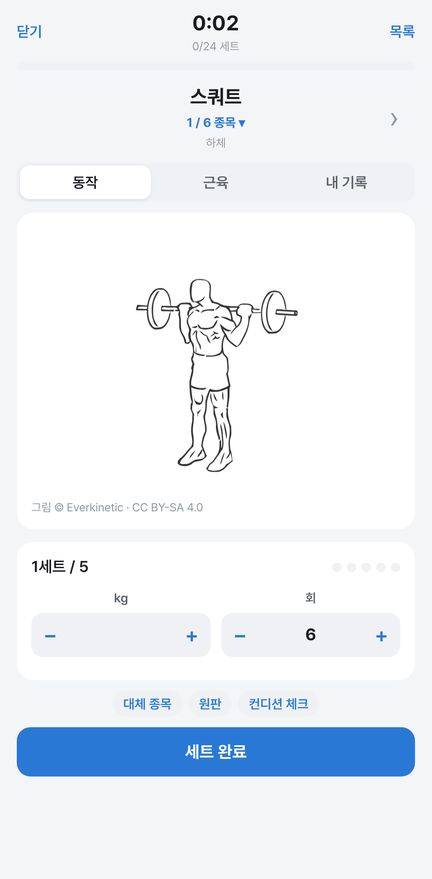
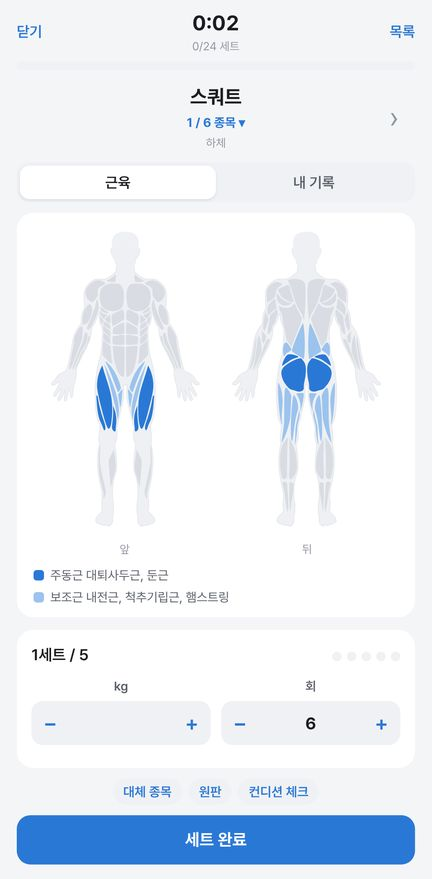
Add files via upload

diff --git a/index.html b/index.html
@@ -852,29 +852,7 @@ function suggestSets(name,n,reps,w){
 
 let animRaf=0;
 
-/* 동작 그림: Everkinetic (https://github.com/everkinetic/data) · CC BY-SA 4.0
-   준비 자세(relaxation)와 수축 자세(tension) 두 장을 번갈아 보여 줌. ek.pack.gz 한 파일(약 1.8MB, 오프라인 캐시) */
-const EKV={"벤치프레스":"0042","인클라인 벤치프레스":"0043","디클라인 벤치프레스":"0051","스미스 벤치프레스":"0078","덤벨 벤치프레스":"0055","인클라인 덤벨프레스":"0061","덤벨 플라이":"0056","케이블 플라이":"0057","케이블 크로스오버":"0048","체스트 프레스 머신":"0066","인클라인 체스트 프레스 머신":"0081","딥스":"0054","푸시업":"0077","디클라인 푸시업":"0075","데드리프트":"0099","랙풀":"0100","바벨로우":"0026","펜들레이 로우":"0026","T바 로우":"0029","덤벨 로우":"0024","인버티드 로우":"0086","풀업":"0087","친업":"0090","랫풀다운":"0093","클로즈그립 랫풀다운":"0096","시티드 로우":"0025","원암 케이블 로우":"0025","머신 로우":"0025","해머 DY 로우":"0025","스트레이트암 풀다운":"0092","케이블 풀오버":"0092","백 익스텐션":"0103","바벨 슈러그":"0030","덤벨 슈러그":"0005","스쿼트":"0122","프론트 스쿼트":"0138","박스 스쿼트":"0133","스미스 스쿼트":"0124","고블릿 스쿼트":"0130","핵 스쿼트":"0123","레그프레스":"0127","RDL":"0118","덤벨 RDL":"0107","굿모닝":"0101","힙 쓰러스트":"0109","글루트 브릿지":"0109","불가리안 스플릿 스쿼트":"0132","런지":"0115","워킹 런지":"0121","샌드백 런지":"0114","스텝업":"0137","레그컬":"0117","레그 익스텐션":"0142","힙 어브덕션":"0156","힙 어덕션":"0157","카프레이즈":"0282","시티드 카프레이즈":"0279","오버헤드프레스":"0004","머신 숄더프레스":"0004","덤벨 숄더프레스":"0038","아놀드 프레스":"0038","사이드 레터럴 레이즈":"0018","프론트 레이즈":"0033","리어 델트 플라이":"0032","업라이트 로우":"0014","바벨컬":"0211","EZ바 컬":"0226","덤벨 컬":"0224","해머컬":"0227","인클라인 덤벨 컬":"0214","컨센트레이션 컬":"0220","프리처 컬":"0239","케이블컬":"0212","케이블 해머컬":"0216","리버스 컬":"0257","트라이셉스 푸시다운":"0205","로프 푸시다운":"0206","리버스 그립 푸시다운":"0189","오버헤드 트라이셉스 익스텐션":"0192","케이블 오버헤드 익스텐션":"0176","라잉 트라이셉스 익스텐션":"0183","덤벨 킥백":"0204","클로즈그립 벤치프레스":"0049","트라이셉스 딥스":"0171","벤치 딥스":"0162","사이드 플랭크":"0113","크런치":"0291","바이시클 크런치":"0284","케이블 크런치":"0288","라잉 레그레이즈":"0021","앱 롤아웃":"0286","디클라인 덤벨프레스":"0052","월볼":"0130","케이블 레터럴 레이즈":"0018","머신 레터럴 레이즈":"0018","리버스 펙덱":"0032","케이블 하이로우":"0025","시티드 레그컬":"0119","라잉 레그컬":"0117","내로우 핵 스쿼트":"0145","싱글 레그프레스":"0143","시시 스쿼트":"0158","스미스 런지":"0115","힙 쓰러스트 머신":"0109","케이블 글루트 킥백":"0112","케이블 힙 어덕션":"0135","레그프레스 카프레이즈":"0273","동키 카프레이즈":"0275","스미스 카프레이즈":"0282","디클라인 체스트 프레스 머신":"0066","와이드 체스트 프레스 머신":"0066","인클라인 덤벨 플라이":"0062","인클라인 케이블 플라이":"0060","로우 투 하이 케이블 플라이":"0048","어시스트 딥스":"0054","어시스트 풀업":"0087","언더그립 랫풀다운":"0096","원암 랫풀다운":"0093","머신 랫풀다운":"0093","머신 로우로우":"0025","머신 하이로우":"0025","T바 로우 머신":"0029","스미스 로우":"0026","머신 풀오버":"0079","덤벨 풀오버":"0079","백 익스텐션 머신":"0103","스미스 슈러그":"0041","케이블 슈러그":"0009","스미스 밀리터리 프레스":"0004","스미스 업라이트 로우":"0013","케이블 프론트 레이즈":"0008","케이블 리어 델트 플라이":"0035","케이블 Y 레이즈":"0018","원암 케이블 푸시다운":"0166","V바 푸시다운":"0207","트라이셉스 익스텐션 머신":"0210","케이블 트라이셉스 킥백":"0204","스미스 클로즈그립 벤치프레스":"0195","스파이더 컬":"0245","프리처 컬 머신":"0236","머신 컬":"0253","케이블 프리처 컬":"0217","원암 케이블 컬":"0247","오버헤드 케이블 컬":"0238","원암 덤벨 프리처 컬":"0237","복근 크런치 머신":"0288","디클라인 크런치":"0292","원암 덤벨 오버헤드 익스텐션":"0186","와이드그립 랫풀다운":"0093","스미스 인클라인 벤치프레스":"0081"};
-Object.assign(EKV,{'링 딥':'0054','싯업':'0291','체스트 투 바 풀업':'0087'});
-const EK_CREDIT='그림 © Everkinetic · CC BY-SA 4.0';
-let ekP=null;const ekURL={};
-function loadEk(){
-  if(ekP)return ekP;
-  ekP=(async()=>{const buf=(await gzFetch(['ek.pack.gz','ohun/ek.pack.gz'])).buffer;
-    const dv=new DataView(buf);if(String.fromCharCode(...new Uint8Array(buf,0,4))!=='OHEK')throw new Error('bad pack');
-    const hl=dv.getUint32(4,true),idx=JSON.parse(new TextDecoder().decode(new Uint8Array(buf,8,hl))),base=8+hl;
-    for(const[k,[o,l]]of Object.entries(idx))ekURL[k]=URL.createObjectURL(new Blob([new Uint8Array(buf,base+o,l)],{type:'image/svg+xml'}));return true;})().catch(e=>{ekP=null;return false;});
-  return ekP;
-}
-function showAnim(idp,name){
-  const ph=$(idp+'Ph'),lab=$(idp+'FigL');if(!ph)return;const id=EKV[name];
-  const none=()=>{ph.innerHTML='<div class="tiny" style="padding:40px 0;text-align:center">그림을 불러오지 못했어요 · 근육 탭을 확인하세요</div>';if(lab)lab.textContent='';};
-  if(!id){none();return;}
-  ph.classList.add('ek');if(lab)lab.textContent=EK_CREDIT;
-  const tok=ph.dataset.tok=String(Math.random());ph.innerHTML='';
-  loadEk().then(ok=>{if(ph.dataset.tok!==tok)return;if(!ok||!ekURL[id+'r']){none();return;}
-    ph.innerHTML=`<img class="r" src="${ekURL[id+'r']}" alt="준비 자세"><img class="t" src="${ekURL[id+'t']}" alt="수축 자세">`;});
-}
+/* 동작 그림 기능은 v7.13에서 제거 (오운_동작그림_백업.zip에 보관) */
 
 /* ══════════════════════ 근육 지도 ══════════════════════ */
 /* 근육 지도 SVG 경로: react-native-body-highlighter v3.2.0
@@ -912,18 +890,13 @@ function exHistHTML(name){
   <table class="t" style="margin-top:6px">${[...H].reverse().slice(0,6).map(h=>`<tr><td style="color:var(--text3)">${md(h.date)}</td><td>${t?h.top.r+'초':h.top.w+'kg × '+h.top.r}</td><td style="text-align:right;color:var(--text2)">${h.sets}세트</td></tr>`).join('')}</table>`;
 }
 function guideHTML(name,idp){
-  const ek=!!EKV[name];
-  return`<div class="seg" id="${idp}Seg" style="margin-bottom:10px">${ek?'<button class="on" data-k="anim">동작</button>':''}<button class="${ek?'':'on'}" data-k="mus">근육</button><button data-k="his">내 기록</button></div>
-  <div class="gbox"><div id="${idp}Anim" style="${ek?'':'display:none'}"><div class="ph" id="${idp}Ph"></div>
-  <div style="min-height:22px;padding:0 4px"><span class="tiny" id="${idp}FigL"></span></div></div>
-  <div id="${idp}Mus" style="${ek?'display:none':''}">${muscleSVG(name)}${musLegend(name)}</div>
+  return`<div class="seg" id="${idp}Seg" style="margin-bottom:10px"><button class="on" data-k="mus">근육</button><button data-k="his">내 기록</button></div>
+  <div class="gbox"><div id="${idp}Mus">${muscleSVG(name)}${musLegend(name)}</div>
   <div id="${idp}His" style="display:none"></div></div>`;
 }
 function bindGuide(idp,name){
-  bindSeg(idp+'Seg',k=>{$(idp+'Anim').style.display=k==='anim'?'':'none';$(idp+'Mus').style.display=k==='mus'?'':'none';$(idp+'His').style.display=k==='his'?'':'none';
-    if(k==='anim')showAnim(idp,name);else cancelAnimationFrame(animRaf);
-    if(k==='his'){$(idp+'His').innerHTML=exHistHTML(name);const H=exHistory(name).slice(-20),t=isTimed(name);if($('ehChart'))chart($('ehChart'),H.map(h=>md(h.date)),[{name:t?'초':'추정 1RM',data:H.map(h=>t?h.top.r:h.est||null),color:'var(--s1)'}],{h:140,fmt:v=>v+(t?'초':' kg')});}});
-  if(EKV[name])showAnim(idp,name);else cancelAnimationFrame(animRaf);
+  bindSeg(idp+'Seg',k=>{$(idp+'Mus').style.display=k==='mus'?'':'none';$(idp+'His').style.display=k==='his'?'':'none';
+    if(k==='his'){$(idp+'His').innerHTML=exHistHTML(name);const H=exHistory(name).slice(-20),t=isTimed(name);if($('ehChart'))chart($('ehChart'),H.map(h=>md(h.date)),[{name:t?'초':'추정 1RM',data:H.map(h=>t?h.top.r:h.est||null),color:'var(--s1)'}],{h:140,fmt:v=>t?v+'초':v+'kg'});}});
 }
 function openGuide(name){
   const i=exInfo(name);
@@ -2295,7 +2268,7 @@ function renderMore(){
   <div class="list">${row('운동 타이머','카운트다운 · 스톱워치 · 인터벌 · EMOM · WOD','openTimerTool()')}${row('주로 하는 운동',FOCUS_L[S.focus||'all'],'openFocus()')}${row('목표',(()=>{const G=goalsOf();const n=(G.weight&&G.weight.t?1:0)+G.lifts.length;return n?`${n}개 진행 중`:'체중 · 종목 목표와 필요 속도';})(),'openGoals()')}${row('영양제 · 복용 약물',S.meds&&S.meds.length?`약물 ${S.meds.length}개 등록`:'운동할 때 주의할 점 안내','openMeds()')}${row('휴식 타이머','','openRestSet()',`<span class="tiny">${S.rest?S.rest+'초':'끔'}</span>`)}${row('음성 안내','타이머 3·2·1 카운트다운','S.voice=S.voice?0:1;saveLocal();renderMore()',`<span class="badge ${S.voice?'b-good':''}">${S.voice?'켜짐':'꺼짐'}</span>`)}</div>
   <div class="sec">앱</div>
   <div class="list">${row('계정 · 클라우드',fb.user?`${esc(fb.user.email||'로그인됨')} · ${fb.state||'연결됨'}`:'로그인하면 여러 기기에서 같은 기록','openAccount()')}${isStandalone()?'':row('홈 화면에 설치','앱처럼 전체 화면 · 오프라인 실행','installApp()')}${row('데이터 백업 · 복원','JSON · CSV 내보내기','openData()')}${row('화면 테마','',"S.theme=S.theme==='auto'?'light':S.theme==='light'?'dark':'auto';applyTheme();saveLocal();renderMore()",`<span class="tiny">${{auto:'시스템',light:'라이트',dark:'다크'}[S.theme||'auto']}</span>`)}${row('의견 보내기','버그 · 불편한 점 · 원하는 기능','openFeedback()')}${row('개인정보 · 이용 안내','','openPrivacy()')}</div>
-  <div class="tiny" style="text-align:center;margin-top:18px;line-height:1.7">오운! v${APP_VER} · <button class="link" style="font-size:11px" onclick="checkUpdate()">업데이트 확인</button><br>MEV/MAV/MRV: Israetel 2019 · BMR: Mifflin-St Jeor · FFMI: Kouri 1995<br>근육 지도: react-native-body-highlighter (MIT, ELABBASSI Hicham)<br>운동 그림: Everkinetic (CC BY-SA 4.0)<br>의학적·전문 트레이닝 조언을 대체하지 않습니다.</div>
+  <div class="tiny" style="text-align:center;margin-top:18px;line-height:1.7">오운! v${APP_VER} · <button class="link" style="font-size:11px" onclick="checkUpdate()">업데이트 확인</button><br>MEV/MAV/MRV: Israetel 2019 · BMR: Mifflin-St Jeor · FFMI: Kouri 1995<br>근육 지도: react-native-body-highlighter (MIT, ELABBASSI Hicham)<br>의학적·전문 트레이닝 조언을 대체하지 않습니다.</div>
   <a class="credit" href="https://www.instagram.com/proteinvillain/" target="_blank" rel="noopener">만든 사람 <b>@proteinvillain</b> · Instagram</a><div class="tiny" style="text-align:center;color:var(--text3)">비상업 개인 프로젝트 · 광고·결제 없음</div>`;
 }
 function openProfile(){
@@ -3145,7 +3118,7 @@ function openCSV(){
 /* ── 공개판: 처음 안내 · 개인정보 안내 · 클라우드 삭제 ── */
 function openWelcome(){
   openSheet(`<div style="text-align:center;padding:10px 4px 4px"><div class="brand" style="justify-content:center;font-size:26px;font-weight:900"><i style="width:52px;height:52px;border-radius:14px"><img src="icons/logo-r.png" alt=""></i>오운!</div><div class="muted" style="margin-top:6px">오늘 운동, 완료!</div></div>
-  <div class="card">${[['프로그램이 오늘 할 운동을 알려 줘요','5×5·5/3/1·하이록스 등 검증된 플랜을 고르면 요일별 운동과 무게가 자동으로 나옵니다.'],['운동 모드로 세트·휴식을 한 화면에서','동작 그림, 휴식 타이머, 원판 계산, 자동 증량 제안까지.'],['러닝·인바디·식단도 함께','식약처 DB 29만 개 음식 검색, 인바디 분석, 러닝 부하 관리.'],['기록은 내 기기에','로그인 없이 바로 쓸 수 있고, 원하면 계정으로 백업·동기화합니다.']].map(([t,d],i)=>`<div style="display:flex;gap:12px;padding:8px 0"><b style="width:26px;height:26px;border-radius:50%;background:var(--pri);color:#fff;display:flex;align-items:center;justify-content:center;flex:none;font-size:13px">${i+1}</b><div><div class="li-t">${t}</div><div class="tiny" style="margin-top:2px">${d}</div></div></div>`).join('')}</div>
+  <div class="card">${[['프로그램이 오늘 할 운동을 알려 줘요','5×5·5/3/1·하이록스 등 검증된 플랜을 고르면 요일별 운동과 무게가 자동으로 나옵니다.'],['운동 모드로 세트·휴식을 한 화면에서','근육 지도, 휴식 타이머, 원판 계산, 자동 증량 제안까지.'],['러닝·인바디·식단도 함께','식약처 DB 29만 개 음식 검색, 인바디 분석, 러닝 부하 관리.'],['기록은 내 기기에','로그인 없이 바로 쓸 수 있고, 원하면 계정으로 백업·동기화합니다.']].map(([t,d],i)=>`<div style="display:flex;gap:12px;padding:8px 0"><b style="width:26px;height:26px;border-radius:50%;background:var(--pri);color:#fff;display:flex;align-items:center;justify-content:center;flex:none;font-size:13px">${i+1}</b><div><div class="li-t">${t}</div><div class="tiny" style="margin-top:2px">${d}</div></div></div>`).join('')}</div>
   <label style="display:flex;gap:10px;align-items:center;margin:0 4px 12px;font-size:14px;cursor:pointer"><input type="checkbox" id="wcAge" style="width:20px;height:20px;accent-color:var(--pri)"><span>만 14세 이상이며 <button class="link" style="font-size:14px" onclick="event.preventDefault();openPrivacy()">개인정보·이용 안내</button>를 확인했습니다</span></label>
   <button class="btn" onclick="if(!$('wcAge').checked){toast('만 14세 이상 확인에 체크해 주세요');return;}S.welcomed=new Date().toISOString();saveLocal();closeSheet();setTimeout(openOnboarding,300)">시작하기</button>
   <button class="link" style="display:block;margin:14px auto 2px;font-size:13px" onclick="closeSheet();restoreGoogle()">예전에 쓰던 기록이 있어요 · 복원하기</button>`);
@@ -3166,7 +3139,7 @@ function privacyBody(sec){
   ${sec('삭제','더보기 › 데이터 백업 · 복원 › 모든 데이터 삭제로 기기 기록을 지웁니다. 클라우드 기록과 계정은 더보기 › 계정 · 클라우드 › 클라우드 데이터와 계정 삭제로 지웁니다.')}
   ${sec('건강 관련 안내','운동·식단 제안은 일반적인 정보이며 의학적 진단이나 전문 트레이닝을 대신하지 않습니다. 통증이나 지병이 있으면 전문가와 상의하세요.')}
   ${sec('문의 · 운영자','만든 사람: <a href="https://www.instagram.com/proteinvillain/" target="_blank" rel="noopener" style="color:var(--pri);font-weight:700">@proteinvillain</a> (Instagram)<br>개인정보 보호 담당도 만든 사람이 직접 맡습니다. 개인정보 열람·정정·삭제 요청이나 오류 제보는 인스타그램 DM으로 보내 주세요. 앱 안에서 직접 삭제하는 방법은 위 \'삭제\' 항목을 참고하세요.')}
-  ${sec('출처','운동 그림: Everkinetic (CC BY-SA 4.0) · 근육 지도: react-native-body-highlighter (MIT) · 음식: 식품의약품안전처 식품영양성분 DB(공공데이터포털) · 글자 인식: Tesseract.js·tessdata (Apache 2.0) · 로그인·저장: Firebase (Google)<br>5/3/1, Madcow, HYROX 등은 각 권리자의 프로그램·상표 이름으로, 설명 목적으로만 쓰며 공식 제휴 앱이 아닙니다.')}`;
+  ${sec('출처','근육 지도: react-native-body-highlighter (MIT) · 음식: 식품의약품안전처 식품영양성분 DB(공공데이터포털) · 글자 인식: Tesseract.js·tessdata (Apache 2.0) · 로그인·저장: Firebase (Google)<br>5/3/1, Madcow, HYROX 등은 각 권리자의 프로그램·상표 이름으로, 설명 목적으로만 쓰며 공식 제휴 앱이 아닙니다.')}`;
 }
 function openPrivacy(){openSheet(`<div class="sheet-h"><h2>개인정보 · 이용 안내</h2><button class="link" onclick="closeSheet()">닫기</button></div>${privacyBody()}`);
 }
@@ -3709,13 +3682,12 @@ async function runInstallCheck(){
   const icons=(man&&man.icons)||[{src:'icons/icon-192.png'},{src:'icons/icon-512.png'}];
   for(const ic of icons){try{const r=await fetch(ic.src,{cache:'no-store'});ok('아이콘 '+ic.src,r.ok&&/image/.test(r.headers.get('content-type')||''),'icons 폴더째로 저장소에 올리세요.');}catch(e){ok('아이콘 '+ic.src,false,'icons 폴더째로 저장소에 올리세요.');}}
   for(const f of['data/food-kr-1.tsv.gz','data/food-kr-2.tsv.gz']){try{const r=await fetch(f,{method:'HEAD',cache:'no-store'});ok('식약처 음식 DB '+f,r.ok,'data 폴더째로 저장소 맨 위에 올리세요. (폴더 없이 파일만 올렸어도 앱은 찾아 씁니다)');}catch(e){ok(f,false);}}
-  try{const r=await fetch('ek.pack.gz',{method:'HEAD',cache:'no-store'});ok('운동 그림(ek.pack.gz)',r.ok,'ek.pack.gz 파일을 저장소 맨 위에 올리세요.');}catch(e){ok('ek.pack.gz',false);}
   try{const r=await fetch('sw.js',{cache:'no-store'});ok('sw.js',r.ok,'sw.js를 저장소 맨 위에 올리세요.');}catch(e){ok('sw.js',false);}
   try{const reg=await navigator.serviceWorker?.getRegistration();ok('오프라인 작동(서비스 워커)',!!(reg&&reg.active),'새로고침 후 다시 검사하세요.');}catch(e){ok('서비스 워커',false);}
   if(!isIOS())ok('크롬 설치 준비',!!installEvt||isStandalone(),'위 항목이 모두 정상인데 여기만 문제면 메뉴 › "홈 화면에 추가"로 설치하세요. 이미 설치되어 있어도 이렇게 표시됩니다.');
   out.innerHTML=rows.join('');
 }
-const APP_VER='7.12';
+const APP_VER='7.13';
 async function checkUpdate(){toast('최신 버전 확인 중...');try{const r=await navigator.serviceWorker?.getRegistration();if(r)await r.update();}catch(e){}setTimeout(()=>location.reload(),600);}
 async function initPWA(){
   if('serviceWorker' in navigator){let reloaded=false;const had=!!navigator.serviceWorker.controller;navigator.serviceWorker.addEventListener('controllerchange',()=>{if(had&&!reloaded&&navigator.serviceWorker.controller){reloaded=true;toast('새 버전이 적용되었습니다');}});}
@@ -3777,7 +3749,7 @@ function landingHTML(){
    ${n?`<div class="ld-note"><b>이 브라우저에 기록이 ${n}건 있어요.</b><br>${ios?'아이폰은 홈 화면 앱이 Safari와 따로 저장돼요. 설치 전에 브라우저에서 로그인(자동 보관)하거나 백업 파일을 받아 두세요. 설치한 앱에서 같은 계정으로 로그인하면 그대로 이어져요.':'설치하면 같은 기록이 앱에서 그대로 보여요. 로그인해 두면 더 안전해요.'}
     <button onclick="ldUseWeb()">브라우저에서 계속 쓰기</button></div>`:''}
    ${phone('home','오운! 홈 화면')}</section>
-  ${sec('세트만 누르면<br>휴식 타이머까지 알아서','동작 그림을 보면서 무게와 횟수만 확인하세요.<br>운동 순서는 꾹 눌러서 바꿀 수 있어요.','wm','운동 모드 화면')}
+  ${sec('세트만 누르면<br>휴식 타이머까지 알아서','무게와 횟수만 확인하고 완료를 누르세요.<br>쓰이는 근육도 바로 보이고, 순서는 꾹 눌러서 바꿀 수 있어요.','wm','운동 모드 화면')}
   ${sec('부족한 근육,<br>과한 근육을 알려드려요','운동 이론을 바탕으로 근육별 주간 세트와<br>밀기·당기기 균형을 분석해요. 루틴을 짤 때 미리 볼 수도 있어요.','vol','주간 볼륨 분석 화면')}
   ${sec('WOD도 하이록스도<br>타이머 하나로','For Time, AMRAP, EMOM, 인터벌.<br>내 WOD를 직접 짜고 기록까지 남겨요.','timer','크로스핏 타이머 화면')}
   ${sec('인바디 결과지는<br>사진 한 장이면 충분해요','찍기만 하면 25개 항목을 자동으로 채워요.<br>사진은 폰 밖으로 나가지 않아요.','body','인바디 기록 화면')}
@@ -3792,7 +3764,7 @@ function landingHTML(){
    <div class="ld-faq">${faq.map(([q,a])=>`<details><summary>${q}</summary><div>${a}</div></details>`).join('')}</div></section>
   <section class="ld-sec" style="padding-top:56px"><div class="ld-info">
    <details><summary>개인정보 · 이용 안내</summary>${privacyBody(L)}</details>
-   <details><summary>출처 · 라이선스</summary><div class="ld-src" style="padding-top:0;padding-bottom:16px">운동 그림 Everkinetic (CC BY-SA 4.0) · 근육 지도 react-native-body-highlighter (MIT) · 음식 영양 정보 식품의약품안전처 식품영양성분 DB (공공누리) · 글자 인식 Tesseract.js (Apache 2.0) · 로그인·저장 Firebase JS SDK (Apache 2.0) · 글꼴 Pretendard (SIL OFL 1.1)<br>볼륨 분석 기준: Israetel·Hoffmann (2019), Schoenfeld 외 (2016·2017·2021), Pelland 외 (2024)<br>HYROX, CrossFit은 각 소유자의 상표이며 이 앱과 관련이 없어요.</div></details></div></section>
+   <details><summary>출처 · 라이선스</summary><div class="ld-src" style="padding-top:0;padding-bottom:16px">근육 지도 react-native-body-highlighter (MIT) · 음식 영양 정보 식품의약품안전처 식품영양성분 DB (공공누리) · 글자 인식 Tesseract.js (Apache 2.0) · 로그인·저장 Firebase JS SDK (Apache 2.0) · 글꼴 Pretendard (SIL OFL 1.1)<br>볼륨 분석 기준: Israetel·Hoffmann (2019), Schoenfeld 외 (2016·2017·2021), Pelland 외 (2024)<br>HYROX, CrossFit은 각 소유자의 상표이며 이 앱과 관련이 없어요.</div></details></div></section>
   <div class="ld-foot">오운! · 비상업 개인 프로젝트 · v${APP_VER}<br>만든 사람 <a href="https://www.instagram.com/proteinvillain/" target="_blank" rel="noopener">@proteinvillain</a>
    ${pc&&!n?`<button class="ld-skip" onclick="ldUseWeb()">PC에서는 설치 없이 브라우저에서 쓰기</button>`:''}</div>
   </div>`;}

diff --git a/sw.js b/sw.js
@@ -1,15 +1,15 @@
 // 오운! 서비스 워커
 // - index.html: 항상 네트워크 우선 → index.html만 다시 올리면 바로 반영 (버전 수정 불필요)
 // - 운동 애니메이션·아이콘: 처음 설치 때 저장해 오프라인에서도 표시
-// - ANIM_VER는 ek.pack.gz·data 내용이 바뀔 때만 올리면 됨
+// - ANIM_VER는 data·ocr·vendor·fonts 내용이 바뀔 때만 올리면 됨
 const ANIM_VER='media-v4';
-const SHELL='shell-v16';
-const ANIM=['./ek.pack.gz'];
+const SHELL='shell-v17';
+const ANIM=[];
 // 파일 하나가 빠져도 설치가 멈추지 않도록 하나씩 저장
 const SHELL_FILES=['./','./index.html','./firebase-config.js','./manifest.json','./icons/icon-192.png','./icons/icon-512.png','./icons/icon-maskable-512.png','./icons/apple-touch-icon.png','./icons/favicon-64.png','./icons/logo-r.png','./icons/mark-white.png','./icons/sp-text.png','./icons/sp-dumb.png','./icons/sp-spark.png'];
 const addEach=(name,list)=>caches.open(name).then(c=>Promise.all(list.map(u=>c.add(u).catch(()=>{}))));
 self.addEventListener('install',e=>{e.waitUntil(addEach(SHELL,SHELL_FILES).then(()=>{addEach(ANIM_VER,ANIM);return self.skipWaiting();}));});
-self.addEventListener('activate',e=>{e.waitUntil(caches.keys().then(ks=>Promise.all(ks.filter(k=>k!==SHELL&&k!==ANIM_VER).map(k=>caches.delete(k)))).then(()=>self.clients.claim()));});
+self.addEventListener('activate',e=>{e.waitUntil(caches.keys().then(ks=>Promise.all(ks.filter(k=>k!==SHELL&&k!==ANIM_VER).map(k=>caches.delete(k)))).then(()=>caches.open(ANIM_VER)).then(c=>Promise.all([c.delete('./ek.pack.gz'),c.delete(new URL('ek.pack.gz',self.registration.scope).href)])).catch(()=>{}).then(()=>self.clients.claim()));});
 self.addEventListener('fetch',e=>{
   const r=e.request,u=new URL(r.url);if(r.method!=='GET'||u.origin!==location.origin)return;
   if(u.pathname.includes('/anim/')||u.pathname.endsWith('ek.pack.gz')||u.pathname.includes('/data/')||u.pathname.includes('/ocr/')||u.pathname.includes('/vendor/')||u.pathname.includes('/fonts/')||u.pathname.endsWith('.gz')){e.respondWith(caches.match(r).then(m=>m||fetch(r).then(res=>{if(res.ok){const c=res.clone();caches.open(ANIM_VER).then(x=>x.put(r,c));}return res;})));return;}

diff --git a/THIRD_PARTY.md b/THIRD_PARTY.md
@@ -2,7 +2,6 @@
 
 | 자료 | 출처 | 라이선스 | 앱에서 쓰는 방식 |
 |---|---|---|---|
-| 운동 동작 그림 (`ek.pack.gz`) | Everkinetic — https://github.com/everkinetic/data (원작 Greg Priday, everkinetic.com) | CC BY-SA 4.0 — https://creativecommons.org/licenses/by-sa/4.0/ | 그림마다 "그림 © Everkinetic · CC BY-SA 4.0" 표시. 변경: SVG 공백 제거·좌표 소수 둘째 자리 반올림·한 파일로 묶음. 이 그림 묶음은 같은 CC BY-SA 4.0으로 배포 |
 | 근육 지도 경로 | react-native-body-highlighter — ELABBASSI Hicham | MIT (전문 아래) | 앱 코드 안에 포함 |
 | 식품영양성분 (`data/`) | 식품의약품안전처·농촌진흥청·해양수산부, 공공데이터포털 「전국통합식품영양성분정보 표준데이터」 | 공공데이터, 이용허락범위 제한 없음 | 필요한 항목만 골라 압축, 출처 표시 |
 | 인바디 사진 글자 인식 (`ocr/`) | Tesseract.js 7.0.0, tesseract.js-core 7.0.0 (Jerome Wu 외), 한국어 학습 데이터 tessdata 4.0.0_best_int (Google/Tesseract OCR) | Apache 2.0 | 앱 서버에 원본 그대로 두고 사용자가 사진 입력을 처음 누를 때만 내려받음. 사진은 기기 안에서만 처리 |
